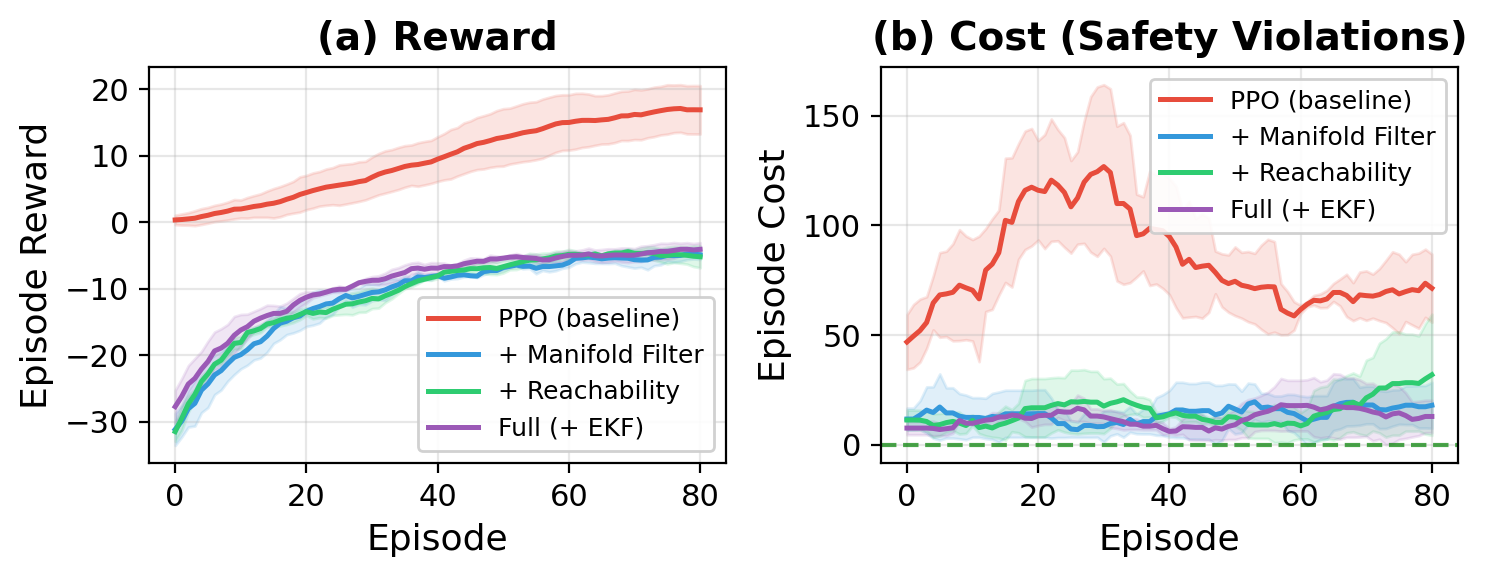
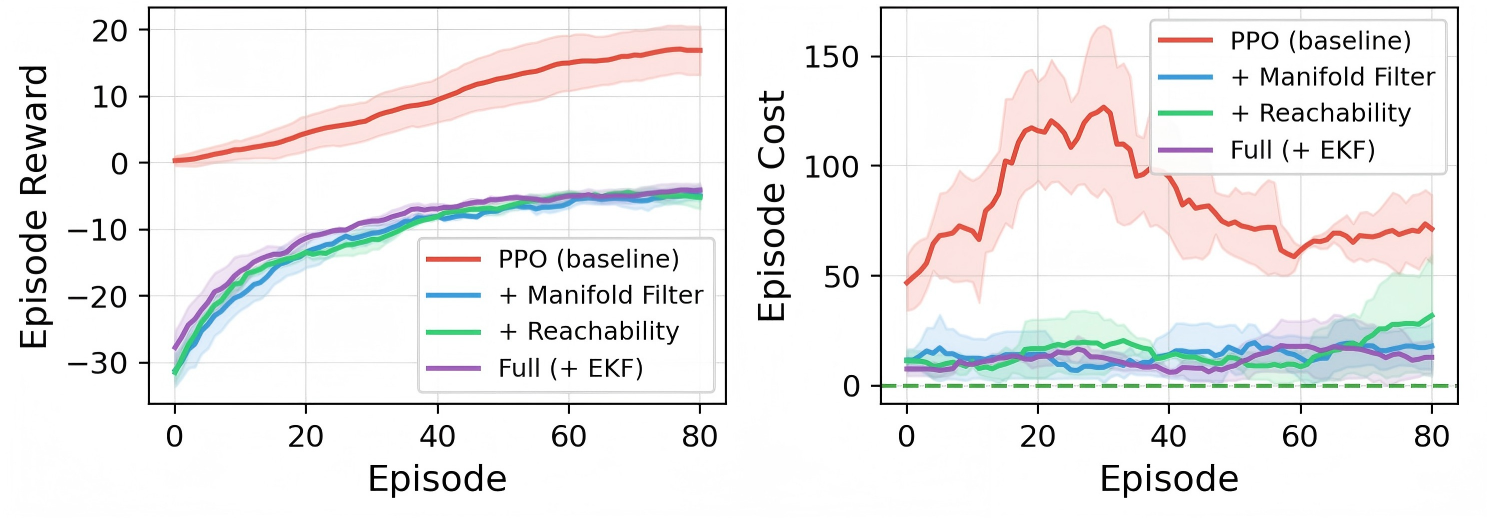
论文修订：答辩版

Changed region(s): [[0.0, 0.0, 0.5878, 0.9575], [0.5259, 0.0, 0.9899, 0.9575], [0.0619, 0.1236, 0.0928, 0.2162]]

diff --git a/paper-safeMARL/contents/chap4.tex b/paper-safeMARL/contents/chap4.tex
@@ -9,14 +9,14 @@
 
 \section{问题定义}
 在强化学习框架下，编队控制问题可建模为一个带约束的多智能体马尔可夫决策过程（CMDP）。策略 $\pi_\theta$ 的目标是在满足安全约束的前提下最大化期望累计奖励：
-\begin{equation*}
+\begin{equation}
 \max_{\pi_\theta} \mathbb{E}\left[\sum_{t=0}^{T} r_t \right]
-\end{equation*}
+\end{equation}
 
 同时满足期望安全代价约束：
-\begin{equation*}
+\begin{equation}
 \mathbb{E}\left[\sum_{t=0}^{T} c_t \right] \le C.
-\end{equation*}
+\end{equation}
 
 其中 $r_t$ 表示任务奖励（目标到达、编队保持等），$c_t$ 表示安全代价（碰撞风险等）。
 为保证系统运行过程中的安全性，定义不等式约束，包括机器人-障碍物约束
@@ -28,67 +28,67 @@ $\|p_i - p_j\| \ge d_{\text{safe}}, \quad i \ne j$,
 \subsection{状态与控制输入建模}
 本文研究对象为工作在二维平面环境下的多差速移动机器人系统。为便于在 GCPL 框架下进行统一的几何力学建模与控制，首先对单个机器人进行状态与控制输入建模。
 设机器人系统由若干个同构差速机器人组成，第 i 个机器人在平面内的配置空间状态可表示为机器人在世界坐标系下的平面位置坐标，以及当前航向角：
-\begin{equation*}
+\begin{equation}
     q_i = (x_i,y_i,\theta_i)
-\end{equation*}
+\end{equation}
 
 机器人的底层控制输入为前进线速度与转向角速度：
-\begin{equation*}
+\begin{equation}
     u_i=(v_i,\omega_i)
-\end{equation*}
+\end{equation}
 
 GCPL 是在配置空间加速度层进行多任务融合的几何控制框架，本文将机器人控制问题建模为加速度级指令生成问题，即：
-\begin{equation*}
+\begin{equation}
     \ddot{q_i} = a_i
-\end{equation*}
+\end{equation}
 
 其中 $a_i = (a_x, a_y)$ 为机器人质心在世界坐标系下的二维期望加速度。通过后续的运动学映射，可将该加速度指令转换为差速机器人可执行的线加速度与角加速度。
 
 \subsection{编队几何图建模}
 
 为刻画多机器人系统的空间编队结构，本文采用无向图对编队拓扑进行建模。图结构是编队控制中描述交互拓扑和相对约束的常用方式~\cite{oh2015formation_survey,golmisheh2023distributed_safe_formation}。设系统包含 $N$ 个机器人，其在二维平面中的位置表示为
-\begin{equation*}
+\begin{equation}
     p = (p_0, p_1, \ldots, p_{N-1}), \quad p_i \in \mathbb{R}^2.
-\end{equation*}
+\end{equation}
 
 定义编队拓扑图为
-\begin{equation*}
+\begin{equation}
     \mathcal{G} = (\mathcal{V}, \mathcal{E})
-\end{equation*}
+\end{equation}
 
 其中节点集合 $\mathcal{V} = \{0,1,\ldots,N-1\}$ 表示机器人个体，边集合 $\mathcal{E} \subseteq \mathcal{V} \times \mathcal{V}$ 表示需要维持相对几何约束的机器人对。
 对于每一条边 $(i,j) \in \mathcal{E}$，指定期望的相对距离 $d_{ij}^* > 0$。
 基于该图结构，定义编队的距离约束为
-\begin{equation*}
+\begin{equation}
     \|p_i - p_j\| = d_{ij}^*, \quad \forall (i,j) \in \mathcal{E}.
-\end{equation*}
+\end{equation}
 
 为刻画编队偏离程度，引入边的距离误差函数
-\begin{equation*}
+\begin{equation}
     z_{ij} = \psi(p_i, p_j) = \|p_i - p_j\| - d_{ij}^*.
-\end{equation*}
+\end{equation}
 
 从而，定义整体编队误差能量函数为
-\begin{equation*}
+\begin{equation}
     E(p) = \frac{1}{2} \sum_{(i,j)\in\mathcal{E}} 
     \left( \|p_i - p_j\| - d_{ij}^* \right)^2,
-\end{equation*}
+\end{equation}
 
 该能量函数用于度量当前编队与目标编队之间的整体偏差。
 仅依赖距离约束时，编队结构在欧氏变换（平移与旋转）下是不变的，即该约束仅能保证编队的刚性形状，而无法唯一确定其方向与朝向。
 因此，为消除由旋转和镜像引起的不确定性，本文进一步在图结构上引入方向约束。
 对于每一条边 $(i,j) \in \mathcal{E}$，定义单位方向向量为
-\begin{equation*}
+\begin{equation}
     \hat{r}_{ij} = \frac{p_j - p_i}{\|p_j - p_i\|},
-\end{equation*}
+\end{equation}
 
 并设定对应的期望方向 $\hat{r}_{ij}^*$。由此定义方向误差为
-\begin{equation*}
+\begin{equation}
     z_{ij}^{\theta} = 1 - \hat{r}_{ij}^\top \hat{r}_{ij}^*.
-\end{equation*}
+\end{equation}
 
 结合距离与方向约束，可得到联合编队能量函数
-\begin{equation*}
+\begin{equation}
     E_{\text{form}}(p) = 
     \frac{1}{2} \sum_{(i,j)\in\mathcal{E}} 
     \left[
@@ -96,7 +96,7 @@ GCPL 是在配置空间加速度层进行多任务融合的几何控制框架，
     +
     \alpha_\theta \left( 1 - \hat{r}_{ij}^\top \hat{r}_{ij}^* \right)^2
     \right],
-\end{equation*}
+\end{equation}
 
 其中 $\alpha_d, \alpha_\theta > 0$ 分别为距离约束与方向约束的权重系数。
 
@@ -107,26 +107,26 @@ GCPL 是在配置空间加速度层进行多任务融合的几何控制框架，
 \paragraph{1) 直线编队（Line Formation）}
 
 直线编队的目标是使机器人沿某一主轴方向排列，并仅维持相邻机器人之间的局部距离约束。设机器人按照索引顺序排列，则边集合定义为
-\begin{equation*}
+\begin{equation}
     \mathcal{E}_{\text{line}} = \{ (i, i+1) \mid i = 0, 1, \ldots, N-2 \}.
-\end{equation*}
+\end{equation}
 
 对应的期望距离通常设置为常数间距：
-\begin{equation*}
+\begin{equation}
     d_{i,i+1}^* = d, \quad \forall (i,i+1) \in \mathcal{E}_{\text{line}}.
-\end{equation*}
+\end{equation}
 
 该结构形成一条链式拓扑，仅约束局部相邻关系。由于该图不具备全局刚性，其整体朝向与宽度需要通过额外的方向约束加以限制。
 
 \paragraph{2) 楔形编队（Wedge Formation）}
 
 楔形编队设机器人 $0$ 为顶点，其余机器人分布在两侧，则边集合可构造为
-\begin{equation*}
+\begin{equation}
     \mathcal{E}_{\text{wedge}} =
     \{ (0,i) \mid i = 1,\ldots,N-1 \}
     \cup
     \{ (i,j) \mid i,j \in \mathcal{N}_{\text{side}} \},
-\end{equation*}
+\end{equation}
 
 其中 $\mathcal{N}_{\text{side}}$ 表示同侧机器人集合。
 该结构构成刚性图，能够在二维平面中唯一确定编队形状（除整体刚体变换外）。
@@ -134,15 +134,15 @@ GCPL 是在配置空间加速度层进行多任务融合的几何控制框架，
 \paragraph{3) 圆形编队（Circle Formation）}
 
 圆形编队采用环形拓扑结构，即每个机器人仅与其相邻两个机器人建立连接：
-\begin{equation*}
+\begin{equation}
     \mathcal{E}_{\text{circle}} =
     \{ (i, (i+1) \bmod N) \mid i = 0,1,\ldots,N-1 \}.
-\end{equation*}
+\end{equation}
 
 对应的期望距离设置为相邻机器人在圆周上的弧长近似：
-\begin{equation*}
+\begin{equation}
     d_{i,i+1}^* = 2R \sin\left(\frac{\pi}{N}\right),
-\end{equation*}
+\end{equation}
 
 其中 $R$ 为期望圆半径。
 
@@ -654,16 +654,22 @@ r_{\mathrm{form}}^k = r_{\mathrm{dist}} + r_{\mathrm{aux}},
 
 除奖励函数外，本文设计代价函数（Cost），用于度量系统在运行过程中产生的风险程度。该 cost 主要用于安全评估以及策略约束分析。
 总安全代价定义为：
-\[c_t = c_{hazard} + c_{robot}\]
+\begin{equation}
+    c_t = c_{hazard} + c_{robot}
+\end{equation}
 
 障碍物接近代价：当机器人靠近环境障碍物时，产生风险代价：
-\[c_{hazard} = \gamma (R_{hazard} - D_{hazard})\]
+\begin{equation}
+    c_{hazard} = \gamma (R_{hazard} - D_{hazard})
+\end{equation}
 当$D_{hazard} < R_{hazard}$时产生代价，其中：$D_{hazard}$ 为机器人到最近障碍物的距离；$R_{hazard}$为危险距离阈值； $\gamma$ 为权重系数。
 该代价函数呈 Barrier 型结构，当机器人靠近障碍物时迅速增加，从而刻画安全风险。
 
 机器人间碰撞代价：
 为了避免机器人之间的碰撞，引入机器人间安全距离代价：
-\[c_i^{col} = \sum_{j\in\mathcal N_i} \beta_c \phi \big( d_{safe} - \|x_i - x_j\| \big)\]
+\begin{equation}
+    c_i^{col} = \sum_{j\in\mathcal N_i} \beta_c \phi \big( d_{safe} - \|x_i - x_j\| \big)
+\end{equation}
 其中： $d_{safe}$ 为机器人间安全距离；$\beta_c$ 为代价权重； $\phi(\cdot)$ 为ReLU 或 barrier 函数。
 当机器人距离小于安全距离时，代价增加，从而反映系统风险。
 

diff --git a/paper-safeMARL/contents/chap3.tex b/paper-safeMARL/contents/chap3.tex
@@ -17,13 +17,29 @@
 % 利用卷积神经网络（CNN）学习噪声参数，使测量协方差能够适应与速度相关的传感器噪声，
 % 对机器人自身状态进行更加精确和鲁棒的估计，从而显著降低了因感知不确定性引发的安全风险。
 \section{问题定义}
-为刻画机器人安全导航中的安全关系，考虑一个机器人在包含 $n$ 个障碍物的复杂环境中进行导航任务。令 $s_t = [p_t^\top, v_t^\top]^\top \in \mathcal{S} \subseteq \mathbb{R}^d$ 表示机器人在离散时间步 $t$ 时的状态，其中 $p_t \in \mathbb{R}^{d_p}$ 代表位置向量，$v_t \in \mathbb{R}^{d_p}$ 代表速度向量。为了定量描述安全，引入基于距离的约束函数。安全性的核心要求是机器人与环境中任何障碍物之间必须保持一定的物理间隔。定义约束集合如下：$$c_i(s_t) = d_{\text{safe}} - \|p_t - o_i\|_2 \leq 0, \quad \forall i \in \{1, \ldots, n\}$$其中，$d_{\text{safe}} > 0$ 表示预设的最小安全距离阈值，$o_i \in \mathbb{R}^{d_p}$ 为第 $i$ 个障碍物在空间中的坐标，$\|\cdot\|_2$ 为欧几里得范数。
+为刻画机器人安全导航中的安全关系，考虑一个机器人在包含 $n$ 个障碍物的复杂环境中进行导航任务。令 $s_t = [p_t^\top, v_t^\top]^\top \in \mathcal{S} \subseteq \mathbb{R}^d$ 表示机器人在离散时间步 $t$ 时的状态，其中 $p_t \in \mathbb{R}^{d_p}$ 代表位置向量，$v_t \in \mathbb{R}^{d_p}$ 代表速度向量。为了定量描述安全，引入基于距离的约束函数。安全性的核心要求是机器人与环境中任何障碍物之间必须保持一定的物理间隔。定义约束集合如下：
+\begin{equation}
+    c_i(s_t) = d_{\text{safe}} - \|p_t - o_i\|_2 \leq 0, \quad \forall i \in \{1, \ldots, n\}
+\end{equation}
+
+其中，$d_{\text{safe}} > 0$ 表示预设的最小安全距离阈值，$o_i \in \mathbb{R}^{d_p}$ 为第 $i$ 个障碍物在空间中的坐标，$\|\cdot\|_2$ 为欧几里得范数。
 
 若状态 $s_t$ 满足对所有 $i$ 均有 $c_i(s_t) \leq 0$，则称该状态是安全的。在物理上意味着机器人的中心与所有障碍物的中心的距离均大于等于 $d_{\text{safe}}$。在实际应用中，该距离考虑了机器人自身的几何半径以及感知系统的不确定性冗余。
 
-在强化学习（RL）框架下，将安全导航任务建模为一个约束马尔可夫决策过程（CMDP），记为六元组 $(\mathcal{S}, \mathcal{A}, P, R, \gamma, C)$。其中：$\mathcal{S}$ 和 $\mathcal{A}$ 分别为状态空间和动作空间；$P: \mathcal{S} \times \mathcal{A} \times \mathcal{S} \rightarrow [0, 1]$ 为环境的状态转移概率核；$R: \mathcal{S} \times \mathcal{A} \rightarrow \mathbb{R}$ 为奖励函数，鼓励机器人靠近目标点；$\gamma \in [0, 1)$ 为折扣因子；$C = \{c_i: \mathcal{S} \rightarrow \mathbb{R}\}_{i=1}^k$ 为与环境障碍物对应的约束集合。在具有 $k=n$ 个硬约束（每个障碍物对应一个约束）的设置下，安全强化学习的目标是寻找到一个最优策略 $\pi: \mathcal{S} \rightarrow \mathcal{A}$，使得在满足所有时间步的硬安全约束前提下，最大化累积期望回报：$$\max_{\pi} \mathbb{E}_{\pi}\left[ \sum_{t=0}^{T} \gamma^t R(s_t, a_t) \right]$$$$\text{s.t. } c_i(s_t) \leq 0, \quad \forall t \in \{0, \dots, T\}, \forall i \in \{1, \dots, n\}$$与传统的强化学习不同，CMDP 要求算法在探索过程中不仅要学习任务技能，还必须严格遵守状态空间的边界，避免任何形式的碰撞。
+在强化学习（RL）框架下，将安全导航任务建模为一个约束马尔可夫决策过程（CMDP），记为六元组 $(\mathcal{S}, \mathcal{A}, P, R, \gamma, C)$。其中：$\mathcal{S}$ 和 $\mathcal{A}$ 分别为状态空间和动作空间；$P: \mathcal{S} \times \mathcal{A} \times \mathcal{S} \rightarrow [0, 1]$ 为环境的状态转移概率核；$R: \mathcal{S} \times \mathcal{A} \rightarrow \mathbb{R}$ 为奖励函数，鼓励机器人靠近目标点；$\gamma \in [0, 1)$ 为折扣因子；$C = \{c_i: \mathcal{S} \rightarrow \mathbb{R}\}_{i=1}^k$ 为与环境障碍物对应的约束集合。在具有 $k=n$ 个硬约束（每个障碍物对应一个约束）的设置下，安全强化学习的目标是寻找到一个最优策略 $\pi: \mathcal{S} \rightarrow \mathcal{A}$，使得在满足所有时间步的硬安全约束前提下，最大化累积期望回报：
+\begin{equation}
+    \max_{\pi} \mathbb{E}_{\pi}\left[ \sum_{t=0}^{T} \gamma^t R(s_t, a_t) \right]
+\end{equation}
+\begin{equation}
+    \text{s.t. } c_i(s_t) \leq 0, \quad \forall t \in \{0, \dots, T\}, \forall i \in \{1, \dots, n\}
+\end{equation}
 
-此外，考虑到机器人系统（如差速驱动轮式机器人或无人机）普遍存在非完整约束，不能简单地假设状态可以任意改变。因此，本文将机器人的底层运动学建模为连续时间的控制仿射系统：$$\dot{s} = f(s) + G(s) a$$
+与传统的强化学习不同，CMDP 要求算法在探索过程中不仅要学习任务技能，还必须严格遵守状态空间的边界，避免任何形式的碰撞。
+
+此外，考虑到机器人系统（如差速驱动轮式机器人或无人机）普遍存在非完整约束，不能简单地假设状态可以任意改变。因此，本文将机器人的底层运动学建模为连续时间的控制仿射系统：
+\begin{equation}
+    \dot{s} = f(s) + G(s) a
+\end{equation}
 
 在该模型中：$a \in \mathcal{A} \subseteq \mathbb{R}^m$ 是 $m$ 维控制控制量（如推力、转矩或速度指令）；$f(s): \mathcal{S} \rightarrow \mathbb{R}^d$ 称为漂移项，代表系统在无控制输入时的固有动力学演化；$G(s): \mathcal{S} \rightarrow \mathbb{R}^{d \times m}$ 为控制输入矩阵，定义了控制动作如何映射到状态的变化率上。动力学特例：质点模型（Single-Integrator）： 若 $f(s) = 0$ 且 $G(s) = I$，系统简化为全向移动模型。差速驱动模型： $G(s)$ 包含三角函数项（如 $\cos\theta, \sin\theta$），用以体现机器人朝向与运动速度之间的耦合关系。通过结合上述动力学模型与 CMDP 框架，本文的研究重点在于如何在复杂的动力学约束下，保证机器人在轨迹执行过程中的实时安全性。
 
@@ -227,7 +243,7 @@ $O(\Delta t^2)$
 该项表示当前状态风险 $c(s)$ 与后继状态未来风险 $V_c(s')$ 中的较大者。
 
 式~\eqref{eq:feasible_bellman} 中的 $V_c^*(s')=\min_{a'}Q_c(s',a')$
-表示在后继状态 $s'$ 中选择未来风险最小的动作。由于本文处于离线学习设置，训练过程仅使用离线数据集 $D_off$中已经采集到的状态–动作样本。本文采用反向期望分位回归，在数据范围内近似低风险动作对应的状态值函数。
+表示在后继状态 $s'$ 中选择未来风险最小的动作。由于本文处于离线学习设置，训练过程仅使用离线数据集 $D_{off}$中已经采集到的状态–动作样本。本文采用反向期望分位回归，在数据范围内近似低风险动作对应的状态值函数。
 反向期望分位损失定义为
 \begin{equation}
     L_{\mathrm{rev}}^\tau(u)
@@ -421,7 +437,7 @@ EKF 的卡尔曼更新步骤为：
 \subsection{对比实验}
 为评估完整框架在安全性与任务性能上的综合表现，本文在 Safety-Gymnasium 的 Goal、Circle、Push 与 MultiGoal 任务中与其他基准算法进行对比。
 
-\subsubsection{基线方法}
+\subsubsection{（1）基线方法}
 本文在单智能体和多智能体场景中，与多种经典的安全强化学习算法进行对比，包括 PPO~\cite{schulman2017ppo}、 PCPO~\cite{yang2020projection} 、 PPO-Lag~\cite{stooke2020responsive} 、 TRPO-Lag~\cite{achiam2017constrained} ，多智能体实验包含了 MAPPO 、 HAPPO~\cite{kuba2022happo} 、 MACPO 以及 MAPPO-Lag。
 
 需要注意的是，ATACOM~\cite{liu2022atacom} 需要任务特定的约束雅可比矩阵以及扩展动作空间，因此在 Safety-Gymnasium 基准环境上进行直接比较较为困难；相比之下，本文的方法采用一种基于距离的简化安全过滤器，用于在点机器人任务中近似实现流形投影。

diff --git a/paper-safeMARL/contents/chap6.tex b/paper-safeMARL/contents/chap6.tex
@@ -1,13 +1,13 @@
 \chapter{结论与展望}
 
 \section{结论}
-本文研究不确定环境下机器人的安全强化学习问题，按"单体安全—群体协同—系统验证"三条线索展开：第三章解决单机器人执行层的硬安全保障，第四章把安全约束推广到多机器人编队的几何关系，第五章将两者集成到统一的容器化平台上进行验证。
+本文研究不确定环境下机器人的安全强化学习问题，按"单体安全—群体协同—系统验证"三条线索展开：第3章解决单机器人执行层的硬安全保障，第4章把安全约束推广到多机器人编队的几何关系，第5章将两者集成到统一的容器化平台上进行验证。
 
-第三章提出约束流形策略学习方法（CMPL）。其核心是把策略输出投影到安全可达空间的切空间，使动作在执行前即被修正到满足硬约束，而非依赖奖励惩罚的间接引导；状态估计则用一个由卷积神经网络学习观测噪声协方差的扩展卡尔曼滤波器，为安全过滤器提供更可靠的输入。在 Safety-Gymnasium 的目标到达任务中，CMPL 将平均安全代价从 PPO 基线的 50.58 降到 4.91（降幅 90.3\%）；在 Webots 的 E-puck 零样本部署中，碰撞率由 40\% 降至零，位置误差降低 27.5\%。
+第3章提出约束流形策略学习方法（CMPL）。其核心是把策略输出投影到安全可达空间的切空间，使动作在执行前即被修正到满足硬约束，而非依赖奖励惩罚的间接引导；状态估计则用一个由卷积神经网络学习观测噪声协方差的扩展卡尔曼滤波器，为安全过滤器提供更可靠的输入。在 Safety-Gymnasium 的目标到达任务中，CMPL 将平均安全代价从 PPO 基线的 50.58 降到 4.91（降幅 90.3\%）；在 Webots 的 E-puck 零样本部署中，碰撞率由 40\% 降至零，位置误差降低 27.5\%。
 
-第四章针对多机器人编队中任务目标与安全约束相互耦合的问题，提出几何约束策略学习方法（GCPL）。该方法用 MAPPO 学习任务级控制意图，再由几何过滤层在黎曼流形上统一处理编队拓扑、机间安全距离与避障，并对动作做解析修正，把任务驱动与结构约束解耦到两层。在线形编队任务上，GCPL 相对 MAPPO 基线将安全代价从 105.78 降到 18.53，编队完成度由 10\% 提升到 71\%，成功率由 2\% 提升到 66\%；在楔形、圆形等更复杂拓扑上同样保持领先。
+第4章针对多机器人编队中任务目标与安全约束相互耦合的问题，提出几何约束策略学习方法（GCPL）。该方法用 MAPPO 学习任务级控制意图，再由几何过滤层在黎曼流形上统一处理编队拓扑、机间安全距离与避障，并对动作做解析修正，把任务驱动与结构约束解耦到两层。在线形编队任务上，GCPL 相对 MAPPO 基线将安全代价从 105.78 降到 18.53，编队完成度由 10\% 提升到 71\%，成功率由 2\% 提升到 66\%；在楔形、圆形等更复杂拓扑上同样保持领先。
 
-第五章面向方法验证与工程落地，设计并实现了一套容器化仿真验证平台：用分层架构和 Docker 镜像固化运行依赖，并提供统一的评估管线支持多算法在相同条件下的公平对比。平台把第三、四章方法按 MAPPO→GCPL→CMPL 的顺序串联，先在纯 Python 的 MVP 上验证控制链路的数学正确性，再迁移到 Webots 做四档消融。四档实验全程零碰撞，完整分层配置在编队一致性上最优（编队误差 0.082~m），到达率则随各模块权重组合在安全裕度与目标驱动之间权衡——这说明安全机制能在策略尚未收敛时提供保护，但任务完成度仍取决于策略本身的优化程度。
+第5章面向方法验证与工程落地，设计并实现了一套容器化仿真验证平台：用分层架构和 Docker 镜像固化运行依赖，并提供统一的评估管线支持多算法在相同条件下的公平对比。平台把第3、4章方法按 MAPPO→GCPL→CMPL 的顺序串联，先在纯 Python 的 MVP 上验证控制链路的数学正确性，再迁移到 Webots 做四档消融。四档实验全程零碰撞，完整分层配置在编队一致性上最优（编队误差 0.082~m），到达率则随各模块权重组合在安全裕度与目标驱动之间权衡——这说明安全机制能在策略尚未收敛时提供保护，但任务完成度仍取决于策略本身的优化程度。
 
 三部分工作由"在动作执行前于约束流形上显式修正安全约束"这一共同思想衔接：CMPL 给出单体硬安全，GCPL 把它推广到群体几何协调，平台则让二者在统一环境下端到端运行并可复现地对比。
 

diff --git a/paper-safeMARL/contents/dataset.tex b/paper-safeMARL/contents/dataset.tex
@@ -3,25 +3,25 @@
 \noindent\zihao{5}\begin{tabu} to \textwidth{|X|X|X|X|X|}
 \hline
 关键词* & 密级* & 中图分类号* & UDC & 论文资助 \\\hline
- & & & & \\\hline
+约束流形；多智能体强化学习；多机器人编队；安全强化学习& 公开 & TP18 & & \\\hline
 \multicolumn2{|l|}{学位授予单位名称*} & {学位授予单位代码*} & 学位类别* & 学位级别* \\\hline
-\multicolumn{2}{|l|}{北京科技大学}&10008  & & \\\hline
+\multicolumn{2}{|l|}{北京科技大学}&10008  & 学术型 & 硕士 \\\hline
 \multicolumn2{|l}{论文题名*} & \multicolumn2{|l|}{并列题名} & 论文语种* \\\hline
-\multicolumn5{|l|}{} \\\hline
-作者姓名*&\multicolumn{2}{l|}{} & 学号* &  \\\hline
+\multicolumn4{|l|}{不确定环境下多机器人的强化学习安全策略研究} & 中文 \\\hline
+作者姓名*&\multicolumn{2}{l|}{成孜卓} & 学号* & M202310641 \\\hline
 \multicolumn2{|l|}{培养单位名称*} & 培养单位代码* & 培养单位地址 & 邮编 \\\hline
 \multicolumn2{|l|}{北京科技大学} &10008 & 北京市海淀区学院路30号& 100083\\\hline
 \multicolumn2{|l|}{学科专业*} & 研究方向* & 学制* & 学位授予年* \\\hline
-\multicolumn2{|l|}{} & & & \\\hline
-论文提交日期* & \multicolumn4{l|}{} \\\hline
-导师姓名*&\multicolumn2{l|}{} & 职称* &  \\\hline
+\multicolumn2{|l|}{计算机科学与技术} & 安全多智能体强化学习 & 3年 & 2026年 \\\hline
+论文提交日期* & \multicolumn4{l|}{2026年 06月 02日} \\\hline
+导师姓名*&\multicolumn2{l|}{万亚东} & 职称* & 教授 \\\hline
 评阅人 &答辩委员会主席* & \multicolumn3{l|}{答辩委员会成员} \\\hline
-& & \multicolumn3{l|}{} \\
+& 阿孜古丽 & \multicolumn3{l|}{} \\
 & & \multicolumn3{l|}{} \\\hline
 \multicolumn5{|l|}{电子版论文提交格式  文本（\, ）  图像（\, ） 视频（\, ） 音频（\, ） 多媒体（\, ） 其他（\, ）}\\
 \multicolumn5{|l|}{推荐格式：application/msword; application/pdf} \\\hline
 \multicolumn2{|l}{电子论文出版（发布）者} & \multicolumn2{|l|}{电子论文出版（发布）地} & 权限声明　\\\hline
 \multicolumn2{|l}{} & \multicolumn2{|l|}{} & \\\hline
-论文总页数* & \multicolumn4{l|}{} \\\hline
+论文总页数* & \multicolumn4{l|}{80} \\\hline
 \multicolumn5{|l|}{共33项，其中带*为必填数据，为22项。}\\\hline
 \end{tabu}

diff --git a/paper-safeMARL/main.tex b/paper-safeMARL/main.tex
@@ -41,7 +41,7 @@ style=gb7714-2015,%utf8,
 %\addbibresource{myrefs.bib}
 %%%%%%%%%%%%%%%%%%%%%%%%%%%封面信息%%%%%%%%%%%%%%%%%%%%%%%%%%%%%%%%%%
 %% 作者
-\Author{[本论文作者]}
+\Author{成孜卓}
 \EnglishAuthor{}
 %% 标题
 \Title{不确定环境下多机器人的强化学习安全策略研究}
@@ -49,7 +49,7 @@ style=gb7714-2015,%utf8,
 % \Subtitle{酵母菌催化反应机理和咪唑类离子液体酸度的研究}
 % \EnglishSubtitle{Mechanistic Aspects of Baker's Yeast Mediated Reduction and Measurements of Acidity of Imidazolium Ionic Liquids}
 %% 日期
-\Date{2026年 04月 28日}
+\Date{2026年 06月 02日}
 \EnglishDate{April, 2026}
 %% 学院
 \College{计算机与通信工程学院}
@@ -70,7 +70,7 @@ style=gb7714-2015,%utf8,
 \Country{中国}
 \EnglishCountry{P.R.CHINA}
 %%学号%%
-\StudentCode{[论文作者学号]}
+\StudentCode{M202310641}
 %%专业%%
 \Major{计算机科学与技术}
 \EnglishMajor{Computer Science and Technology}
@@ -78,14 +78,14 @@ style=gb7714-2015,%utf8,
 \Direction{安全多智能体强化学习方向}
 \EnglishDirection{Safe Multi-Agent Reinforcement Learning}
 %%导师%%
-\Supervisor{[本论文导师]}
-\EnglishSupervisor{}
+\Supervisor{万亚东}
+\EnglishSupervisor{Wan Yadong}
 
 \DegreeType{学术型}
 \EnglishDegreeType{Science}
 
 %%中图分类号%%
-\CLCNumber{TP319}
+\CLCNumber{TP18}
 %%UDC分类号%%
 \UDCNumber{620}
 %%学校代码%%
@@ -94,16 +94,16 @@ style=gb7714-2015,%utf8,
 %% 密级
 \SecurityLevel{公开}
 %% 提交日期
-\SubmissionDate{2026年 04月 28日}
+\SubmissionDate{2026年 06月 02日}
 \EnglishSubmissionDate{April, 2026}
 %%%%%%%%%%%%%%%%%%%%%%%%%%%封面信息%%%%%%%%%%%%%%%%%%%%%%%%%%%%%%%%%%
 \begin{document}
 
 \definecolor{lgray}{RGB}{240,240,240}
 
-\TitlePage
+% \TitlePage
 
-% \SecondPage
+\SecondPage
 
 \ThirdPage
 

diff --git a/paper-safeMARL/contents/mresume.tex b/paper-safeMARL/contents/mresume.tex
@@ -19,6 +19,9 @@
 % （1）高性能低功耗深度神经网络处理器芯片设计（USTB06500093），主要参与人员，2017.11-2022.11。
 
 % （2）... 
+（1）2023年11月至2025年12月，参与广东省区域联合基金地区培育项目“未知环境下应急救援的多智能体自主协作感知广义策略研究”（项目号：2023A1515140071）。作为核心成员参与项目算法设计与系统开发，主要负责多智能体安全策略设计与实现相关工作。目前项目已完成中期阶段任务。
+
+（2）2025年1月至2026年1月，参与重点新材料研发及应用国家科技重大专项“材料科学基础数据资源节点建设”（项目号：2025ZD0619800）。作为核心成员参与项目数据资源建设与系统开发。
 
 \section*{三、在学期间所获的科研奖励}
 
